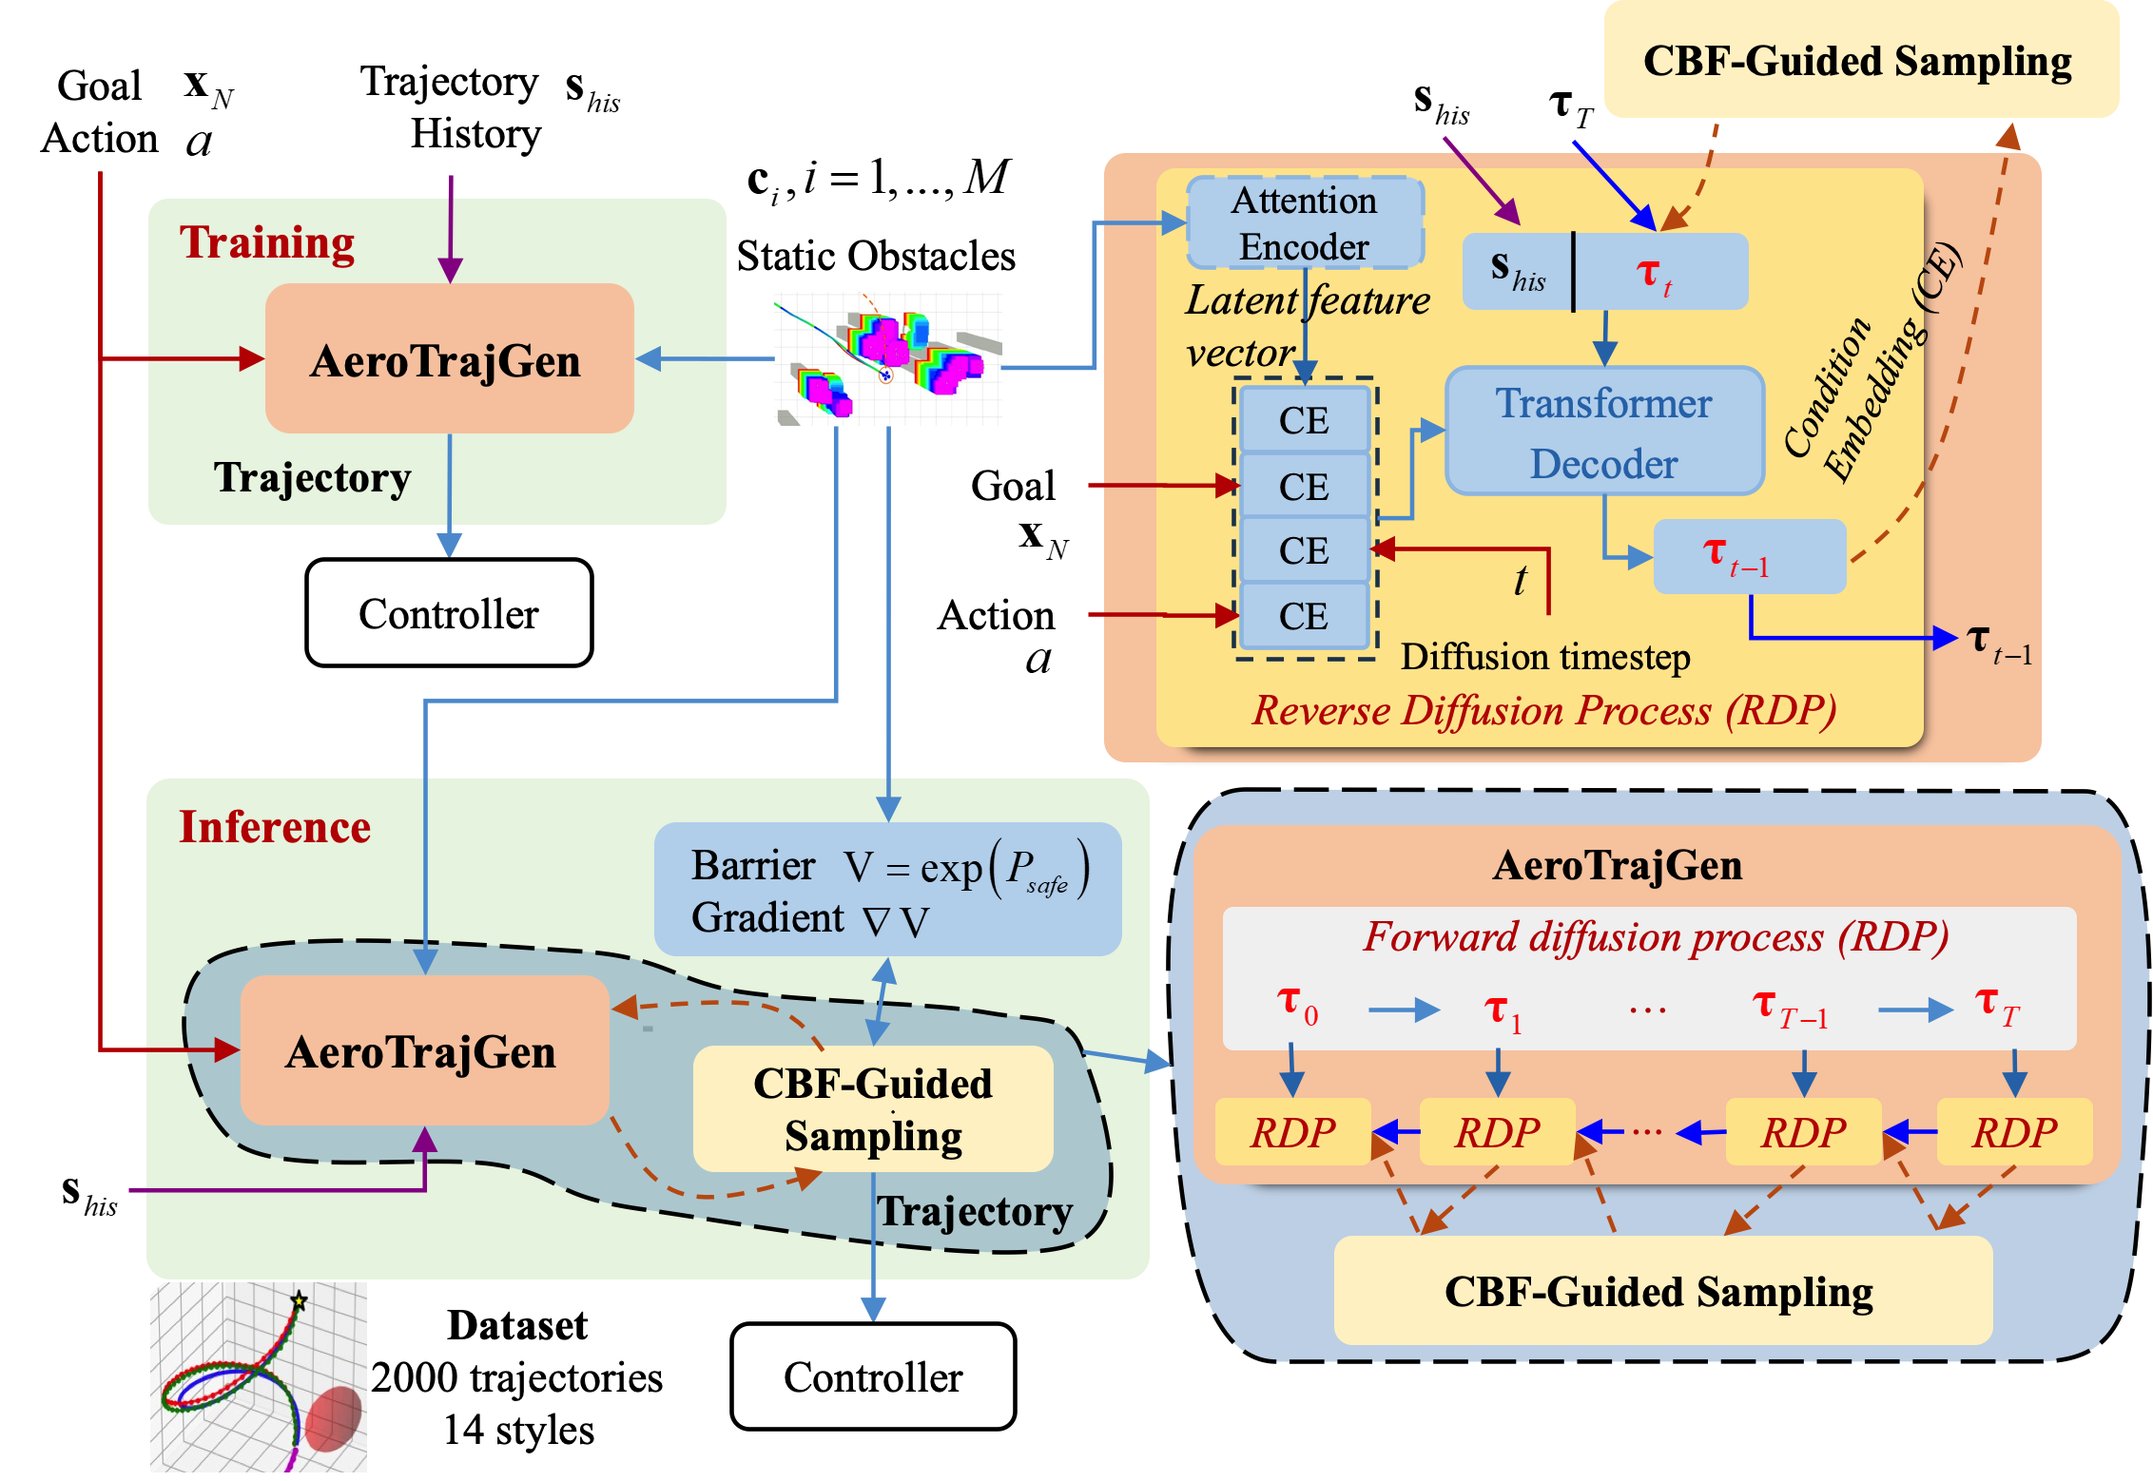
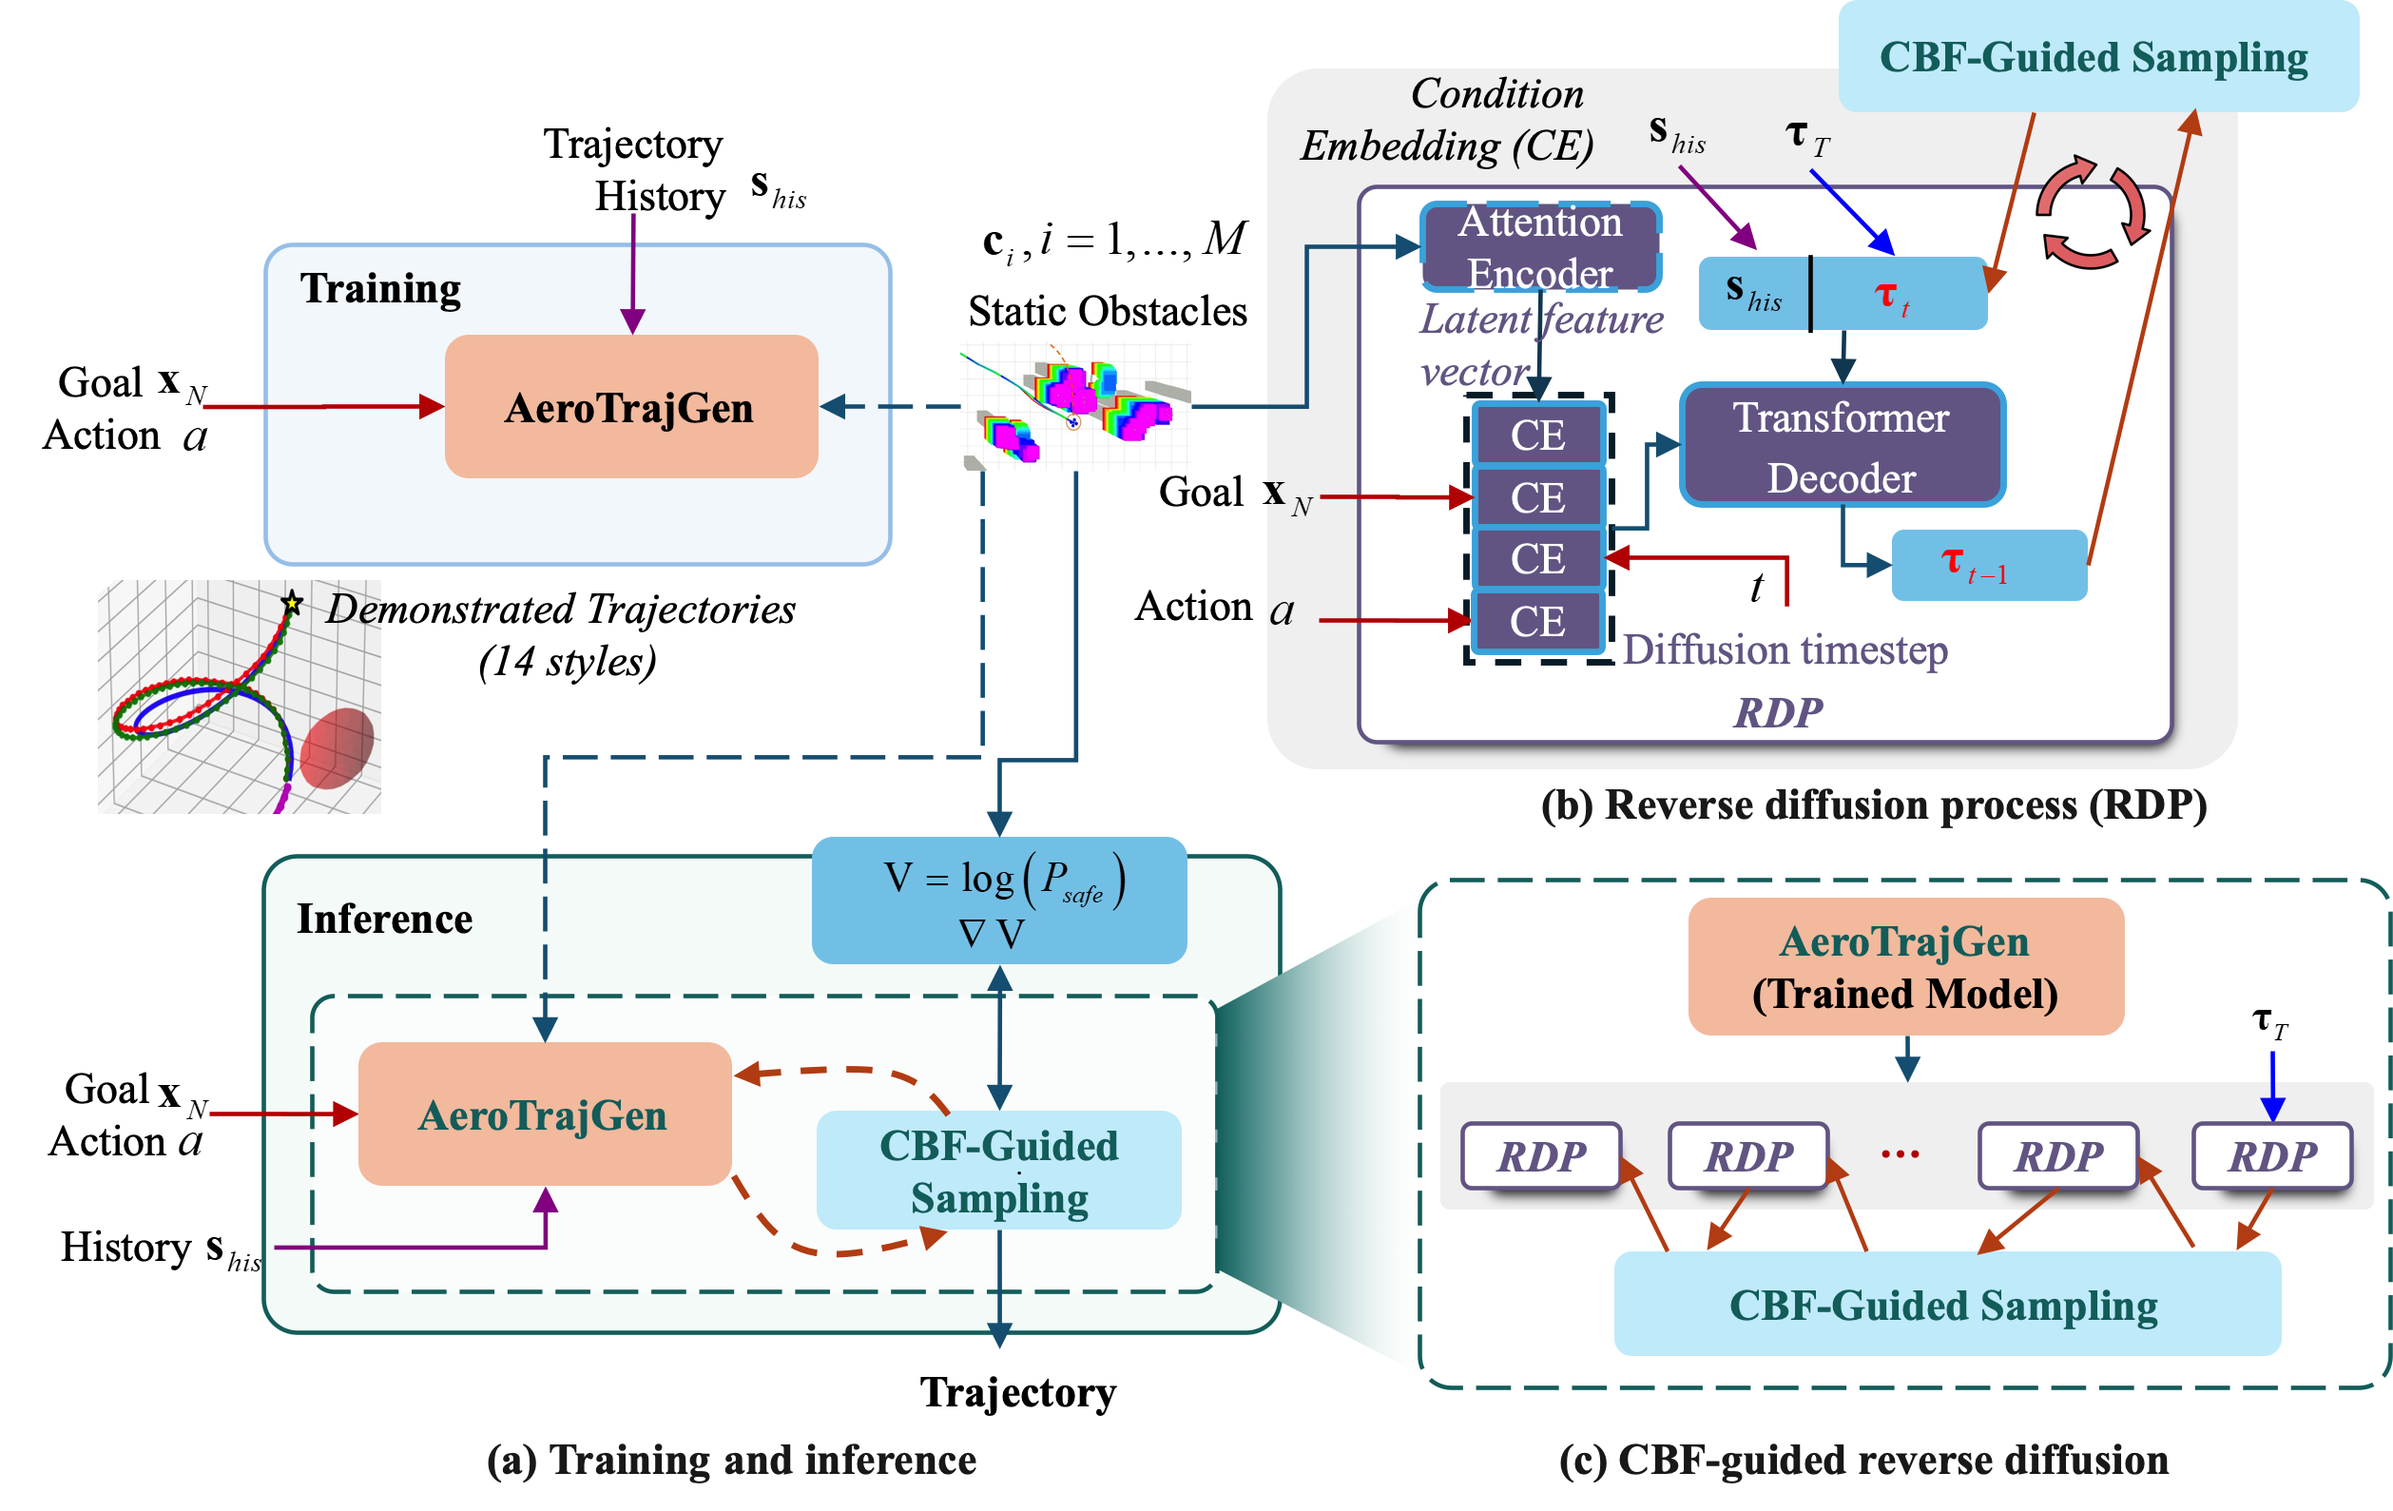
Update: Readme

diff --git a/README.md b/README.md
@@ -1,7 +1,192 @@
-# Safer Trajectory Planning with CBF-guided Diffusion Model for Unmanned Aerial Vehicles
+# AeroTrajGen: CBF-Guided Diffusion Trajectory Generation
 
-[![1776514123219](images/README/Framework.png)]()
+PyTorch research code for **Collision-Aware Diffusion-Based Trajectory Planning via Control Barrier Function-Inspired Guidance**.
 
+AeroTrajGen generates UAV maneuver trajectories conditioned on motion history, a target waypoint, maneuver style, and optional obstacle information. A Transformer diffusion model predicts clean trajectories, while inference-time barrier guidance steers samples away from spherical obstacles without retraining the model.
+
+![AeroTrajGen framework](images/README/Framework.png)
+
+## Features
+
+- Conditional trajectory generation with 23 synthetic maneuver styles.
+- Optional obstacle encoding and obstacle-aware training loss.
+- Exponential (`standard`) and logistic barrier guidance during reverse diffusion.
+- Paired guided and unguided evaluation with trajectory errors, collision rates, target attainment, and overall success.
+- Training objectives for state reconstruction, endpoint accuracy, boundary continuity, smoothness, and position–velocity consistency.
+- Automatic CUDA, Apple MPS, or CPU selection in the main script.
+
+## Repository layout
+
+| Path | Purpose |
+| --- | --- |
+| `AeroDM_ObstacleAware_Training_Test.py` | Main training, checkpoint loading, evaluation, and plotting entry point |
+| `Trajectory_Gen.py` | Synthetic maneuver generation and trajectory utilities |
+| `AeroDM_ObstacleAware_Training.py` | Additional training implementation |
+| `AeroDM/` | Alternative model and guidance implementations |
+| `Test/` | Trajectory-generation helpers and experimental scripts |
+| `MPD_Plan_TRO.py` | MPD-style planning experiment |
+| `SafeDiffuser.py` | Separate diffusion-planning experiment |
+| `Flow_Matching_SafeTrj_pvR_Test.py` | Flow-matching experiment |
+| `model/` | Local checkpoints; ignored by Git |
+| `Results/` | Timestamped evaluation reports; ignored by Git |
+| `Figs/` | Generated figures; ignored by Git |
+| `Doc/` | Local manuscript sources; ignored by Git |
+
+Experimental scripts have their own configurations and are not interchangeable with the main entry point.
+
+## Installation
+
+Run commands from the repository root. Create a Python virtual environment, then install the dependencies used by the main workflow:
+
+```bash
+python3 -m venv .venv
+source .venv/bin/activate
+python -m pip install --upgrade pip
+python -m pip install torch numpy matplotlib scipy
 ```
-python AeroDM_SafeTrj_v2_pvR_Test.py
+
+On Windows, activate the environment with `.venv\Scripts\activate`. For CUDA, install a PyTorch build compatible with your system. Dependency versions are not currently pinned in this repository.
+
+Create the output directories before running:
+
+```bash
+mkdir -p model Results Figs output/pdf
 ```
+
+## Quick start
+
+The main script uses the `Config` class near the top of [AeroDM_ObstacleAware_Training_Test.py](AeroDM_ObstacleAware_Training_Test.py), rather than command-line arguments.
+
+### Train a model
+
+Edit the following fields in `Config`:
+
+```python
+train_model = True
+model_save_dir = "model"
+model_filename = "aerodm_my_run.pth"
+enable_obstacle_encoding = False
+use_obstacle_loss = False
+```
+
+Then run:
+
+```bash
+python AeroDM_ObstacleAware_Training_Test.py
+```
+
+The script generates synthetic trajectories, splits them into training and test subsets (90%/10%), trains the model, saves a timestamped checkpoint and a checkpoint at `model_filename`, and runs evaluation. The current defaults generate 25,000 trajectories and train for 100 epochs, so a full run can be substantial. Reduce `_base_num_trajectories`, `num_epochs`, and `num_test_samples` for an initial workflow check; small runs are not representative of the reported results.
+
+### Evaluate a checkpoint
+
+Set `train_model = False` and point `model_filename` to an existing compatible checkpoint:
+
+```python
+train_model = False
+model_save_dir = "model"
+model_filename = "aerodm_my_run.pth"
+barrier_type = "logistic"  # "standard" or "logistic"
+guidance_gamma = 0.5
+barrier_sigma = 0.3
+num_test_samples = 200
+```
+
+Run the same command. Evaluation compares sampling with and without CBF guidance. Checkpoint loading restores model weights and normalization statistics; model dimensions and obstacle-encoder settings must match the checkpoint. The script also generates synthetic data before entering checkpoint-loading mode.
+
+**Checkpoints are excluded from Git.** A fresh clone should not be assumed to contain the default checkpoint. Train a model first or supply a compatible checkpoint, including its normalization statistics.
+
+## Configuration
+
+The following values describe the current main script, not every historical experiment:
+
+| Setting | Default | Meaning |
+| --- | ---: | --- |
+| `history_len` | 20 | Historical states used for conditioning |
+| `seq_len` | 60 | Predicted future states |
+| `delta_T` | 0.1 s | Sampling interval |
+| `state_dim` | 10 | Speed, position (3), velocity (3), attitude (3) |
+| `target_dim` | 4 | Target position and validity flag |
+| `latent_dim` | 128 | Transformer hidden dimension |
+| `num_layers` / `num_heads` | 4 / 4 | Transformer depth and attention heads |
+| `diffusion_steps` | 60 | Diffusion steps |
+| `batch_size` | 32 | Training batch size |
+| `test_batch_size` | 8 | Evaluation batch size |
+| `enable_obstacle_encoding` | `False` | Obstacle conditioning |
+| `use_obstacle_loss` | `False` | Obstacle penalty during training |
+| `barrier_type` | `"logistic"` | Inference-time barrier mapping |
+| `guidance_gamma` | 0.5 | Barrier-guidance strength |
+| `barrier_sigma` | 0.3 | Logistic smoothing parameter |
+| `guidance_scale` | 2.0 | Classifier-free guidance scale |
+| `show_flag` | `False` | Display plots interactively |
+| `enable_test_plots` | `True` | Generate evaluation plots |
+
+`guidance_gamma` and `guidance_scale` control different mechanisms. In the current sampler, the barrier coefficient is internally scheduled as `4000 * guidance_gamma * (1 - t / diffusion_steps)`; the configured value is not the raw gradient multiplier.
+
+To train with obstacle awareness, enable both `enable_obstacle_encoding` and `use_obstacle_loss`. Changing encoder architecture requires a matching checkpoint or a new training run.
+
+## Training objective
+
+`AeroDMLoss` combines position and endpoint reconstruction, scalar-speed and attitude reconstruction, an optional obstacle penalty, history–prediction continuity, second-difference position smoothness, and kinematic consistency.
+
+The current weights are:
+
+| Configuration field | Value |
+| --- | ---: |
+| `last_xyz_weight` | 50 |
+| `xyz_weight` | 1 |
+| `vel_weight` | 0 |
+| `other_weight` | 1 |
+| `obstacle_weight` | 1 |
+| `continuity_weight` | 5 |
+| `acc_weight` | 1 |
+| `kinematics_weight` | 10 |
+
+Direct velocity supervision is disabled by its zero weight, while velocity channels remain constrained by kinematic consistency. Endpoint supervision is retained even though final-reference error is not a separate success criterion. Refer to `AeroDMLoss.forward` and `compute_obstacle_distance_loss` for exact reductions and normalization.
+
+## Evaluation and outputs
+
+A trajectory is counted as successful only when it satisfies all three conditions:
+
+1. No sampled position intersects an obstacle.
+2. Maximum position error relative to the reference trajectory is below **2 m**.
+3. Final distance to the target is below **1 m**.
+
+Success rate combines obstacle avoidance, reference fidelity, and target attainment. Missing one threshold does not by itself establish that a trajectory is infeasible or of low quality: a different obstacle-avoiding route can exceed the reference-error threshold. Read success rate alongside its component metrics.
+
+Reports include mean absolute position error, RMSE, final-position error, target distance, collision rate, and mean minimum surface distance. The latter averages each trajectory's minimum signed distance to an obstacle surface; a positive aggregate does not imply every trajectory is collision-free.
+
+Typical outputs are:
+
+```text
+Results/metrics_summary_YYYYMMDD_HHMMSS.txt
+Figs/combined_9_test_cases.svg
+output/pdf/test_samples_results.pdf
+model/<configured-checkpoint-name>.pth
+```
+
+Some plots use fixed filenames and are overwritten by subsequent runs. Metric reports include configuration values; keep them together with the relevant checkpoint and figures.
+
+### Example result
+
+The local report `Results/metrics_summary_20261016_010500.txt` records a 200-trajectory run without obstacle encoding, using logistic guidance with `guidance_gamma=0.5` and `barrier_sigma=0.3`:
+
+| Sampling | Collision rate | Mean AE (m) | Success rate | Mean min surface distance (m) |
+| --- | ---: | ---: | ---: | ---: |
+| Unguided | 94.5% | 0.4917 | 5.5% | -0.3843 |
+| Guided | 14.5% | 0.7854 | 69.0% | 0.2991 |
+
+This run illustrates the trade-off between collision avoidance and reference fidelity. These values are a recorded example, not a guarantee for a fresh run; the report and checkpoint are local artifacts excluded from Git.
+
+## Reproducibility and scope
+
+Record the checkpoint, full configuration, normalization statistics, test trajectories, obstacles, and random seeds when comparing guidance settings. The main script seeds the train/test permutation, but generates trajectories before that seed is set; the existing seed alone does not make the entire workflow deterministic. Use identical scenes and sampling conditions for controlled comparisons.
+
+This is a simulation research implementation with known spherical obstacles and sampled-point collision checks. Barrier guidance does not by itself certify continuous-time collision avoidance, dynamic feasibility, or safe hardware execution. Current code, historical scripts, and manuscript experiments may use different state layouts and training settings.
+
+## Troubleshooting
+
+- **Checkpoint not found:** train with `train_model=True`, or correct `model_save_dir` and `model_filename`.
+- **Checkpoint shape mismatch:** match the model dimensions and obstacle-encoder configuration used during training.
+- **Out of memory:** reduce training/evaluation batch sizes or the synthetic dataset size; the main script moves generated datasets to the selected device.
+- **Headless environment:** run `MPLBACKEND=Agg python AeroDM_ObstacleAware_Training_Test.py` and leave `show_flag=False`.
+- **Missing output directory:** create `model`, `Results`, `Figs`, and `output/pdf` before running.
